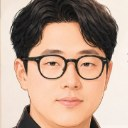
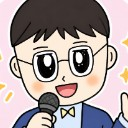
엽쌤 소개 탭 이미지를 엽쌤 캐릭터로 교체 (#31)
- yeopssam.jpg를 마이크를 든 엽쌤 캐릭터 얼굴(128px)로 교체
- 이전 이미지가 남지 않도록 ?v=2로 새로 받게 함

Claude-Session: https://claude.ai/code/session_01NaW5r8WBzNy5B2e9iMgdZz

diff --git a/index.html b/index.html
@@ -523,7 +523,7 @@
             </a>
             <div class="header-actions">
                 <a class="about-tab" href="https://ysschool.vercel.app/" target="_blank" rel="noopener noreferrer" aria-label="엽쌤 소개 — 엽쌤스쿨 홈페이지 열기">
-                    <img class="about-avatar" src="yeopssam.jpg" alt="" width="24" height="24">
+                    <img class="about-avatar" src="yeopssam.jpg?v=2" alt="" width="24" height="24">
                     <span>엽쌤 소개</span>
                 </a>
                 <button type="button" onclick="toggleModal('add-app-modal')" class="btn-primary admin-only hidden">
